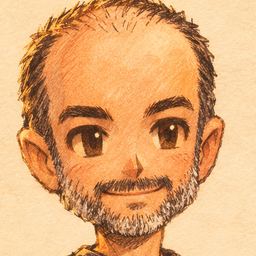
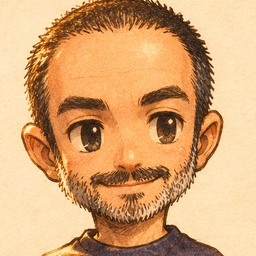
tomportrait1: Tom's portrait is cropped from his new painting
Claude-Session: https://claude.ai/code/session_01RXeukEwUSDJ9vQSuhgX1Q1

diff --git a/index.html b/index.html
@@ -1916,7 +1916,7 @@ html.landscape:not(.tablet):not(.duo) #battle.v2 .b2-x{font-size:17px}html.lands
 <script src="engine/emotions.js?v=salslisten1"></script>
 <script src="engine/script-edits.js?v=scripted2"></script><!-- Script Editor overlay: Tom's line edits applied before a scene plays (script.html) --><!-- mood faces and poses in story dialogue (batch 0: chapter 1) -->
 <script src="engine/tapwalk.js?v=bossbig1"></script><!-- tap to walk -->
-<script src="data/build-history.js?v=guideedit1"></script><!-- build names and times (tools/build_history.py) -->
+<script src="data/build-history.js?v=tomportrait1"></script><!-- build names and times (tools/build_history.py) -->
 <script src="engine/build-history.js?v=buildpill1"></script><!-- build label on the welcome screen and menu, tap for the build history -->
 <script src="engine/m2-core.js?v=menucrease1"></script><!-- the main menu (menu1, the only menu since menu4) -->
 <script src="engine/m2-family.js?v=reports-2026-11-21c"></script><!-- its Family page -->
@@ -1926,7 +1926,7 @@ html.landscape:not(.tablet):not(.duo) #battle.v2 .b2-x{font-size:17px}html.lands
 <script src="engine/block-break.js?v=ch7t1"></script><!-- breaking an orange block: coin, cracks, colour ring, shrink-back, encounters off (ch6build stage 2) -->
 <script src="engine/scene-props.js?v=crispfix1"></script><!-- drawn stand-in props a scene can put on a map: the chart, Rose rolled up, the gold ball, bulbs (ch7build stage 2) -->
 <script src="engine/video-call.js?v=ch6s4"></script><!-- the video call at the end of chapter 6: Long Island seen from Tom's porch (ch6build stage 4) -->
-<script src="engine/main.js?v=guideedit1"></script>
+<script src="engine/main.js?v=tomportrait1"></script>
 <script src="engine/music.js"></script>
 <script src="data/songs.js"></script>
 <script src="engine/music-clips.js?v=adminvol1"></script>

diff --git a/data/build-history.js b/data/build-history.js
@@ -1,5 +1,6 @@
 // Generated by tools/build_history.py. Do not edit by hand. Newest first.
 const BUILD_HISTORY=[
+{"tag":"tomportrait1","at":"2026-11-26T00:39:30-08:00","what":"Tom's face in the status screen, turn order, battle panels and Battle Guide is now cropped from his new painting","card":"c-tomportrait1","theme":"Characters"},
 {"tag":"guideedit1","at":"2026-11-26T00:31:45-08:00","what":"The Battle Guide lets you edit an animation's prompt by hand before you make the video","card":"c-guide-editprompt","theme":"Battle Animations"},
 {"tag":"guidecross1","at":"2026-11-26T00:24:59-08:00","what":"The Battle Guide now shows every Stage 2 manifest move with its clip facts and effects, and lists what Tom has to do per ability","card":"c-guide-crosswalk","theme":"Battle Animations"},
 {"tag":"guideuse-45781979798","at":"2026-11-26T08:21:05+00:00","what":"Knocked out (tom) now plays a video chosen in the Battle Guide","card":"b-guideuse-45781979798","theme":"Battle System"},

diff --git a/engine/main.js b/engine/main.js
@@ -110,7 +110,7 @@ startSplash();
   const d=document.createElement('button');
   d.type='button'; d.id='build-stamp'; d.setAttribute('aria-label','Build history');
   // On an iPhone Duo the stamp also shows the page size and pose the game measured, so Tom can read them back (docs/DUO.md).
-  d.textContent='build guideedit1';
+  d.textContent='build tomportrait1';
   const build=d.textContent,stamp=()=>{ const w=typeof buildWhenLabel==='function'?buildWhenLabel(build.slice(6)).slice(2):'', duo=typeof duoMode!=='undefined'&&duoMode.device?window.innerWidth+'x'+window.innerHeight+(duoMode.open?' duo open':' duo folded'):'';
     d.textContent=build; for(const t of [w,duo]) if(t){ const s=document.createElement('small'); s.textContent=t; d.appendChild(s); } };
   window.BUILD_TAG=build.slice(6);

diff --git a/data/portrait-ver.js b/data/portrait-ver.js
@@ -1,4 +1,4 @@
 // Generated by tools/sprite-bake/bake_portraits.py (portrait1). Do not hand-edit.
 // PORTRAIT_IDS: everyone with a portrait (portraits/<id>.png). PORTRAIT_V: stamp of those pictures' pixels.
 const PORTRAIT_IDS=["tom", "tnb", "grace", "rose", "amy", "justin", "olivia", "deedee", "boppy", "ellie", "jojo", "michael", "nara"];
-const PORTRAIT_V='p68aa55104d';
+const PORTRAIT_V='pec5d37315b';

diff --git a/tools/sprite-bake/bake_portraits.py b/tools/sprite-bake/bake_portraits.py
@@ -35,7 +35,7 @@ EYE_AT = 0.52    # eye line, share of the square from the top
 # id: (left pupil x, right pupil x, eye line y, chin y) in source pixels (chin = bottom of beard).
 FACE = {
     # walkv2 (11-10): measured on the new hero paintings (art/raw/characters/<id>-hero-vN.png); 11-11: Tom hero-v2 and Boppy hero-v1 (new Paso Robles cap) re-measured.
-    'tom': (440, 572, 275, 445),
+    'tom': (445, 578, 270, 432),   # 11-26: measured on tom-hero-v3 (Tom's new Retro Guardian painting)
     'tnb': (428, 546, 248, 405),
     'grace': (438, 558, 276, 412),
     'rose': (478, 601, 311, 440),

diff --git a/docs/CHANGES.md b/docs/CHANGES.md
@@ -1,3 +1,7 @@
+## tomportrait1 (2026-11-26): Tom's face in the status screen, turn order, battle panels and Battle Guide is now cropped from his new painting
+
+Card c-tomportrait1. Tom sent his new painting (the retro controller shirt, short beard) and asked for it to be his portrait. It is saved as `art/raw/characters/tom-hero-v3.png`; the face crop is square 465 px from (279, 28) in `data/portrait-crops.json`, the same zoom as everyone else, and `portraits/tom.png` is rebaked. Not seen on the phone yet. Dialogue faces still come from the emotion and walking sheets, not this crop.
+
 ## guideedit1 (2026-11-26): the Battle Guide lets you edit an animation's prompt by hand before you make the video
 
 Card c-guide-editprompt. Tom (11-26): "in the battle guide i need the ability to edit the prompts for animations before i generate." Not seen on the phone yet.
